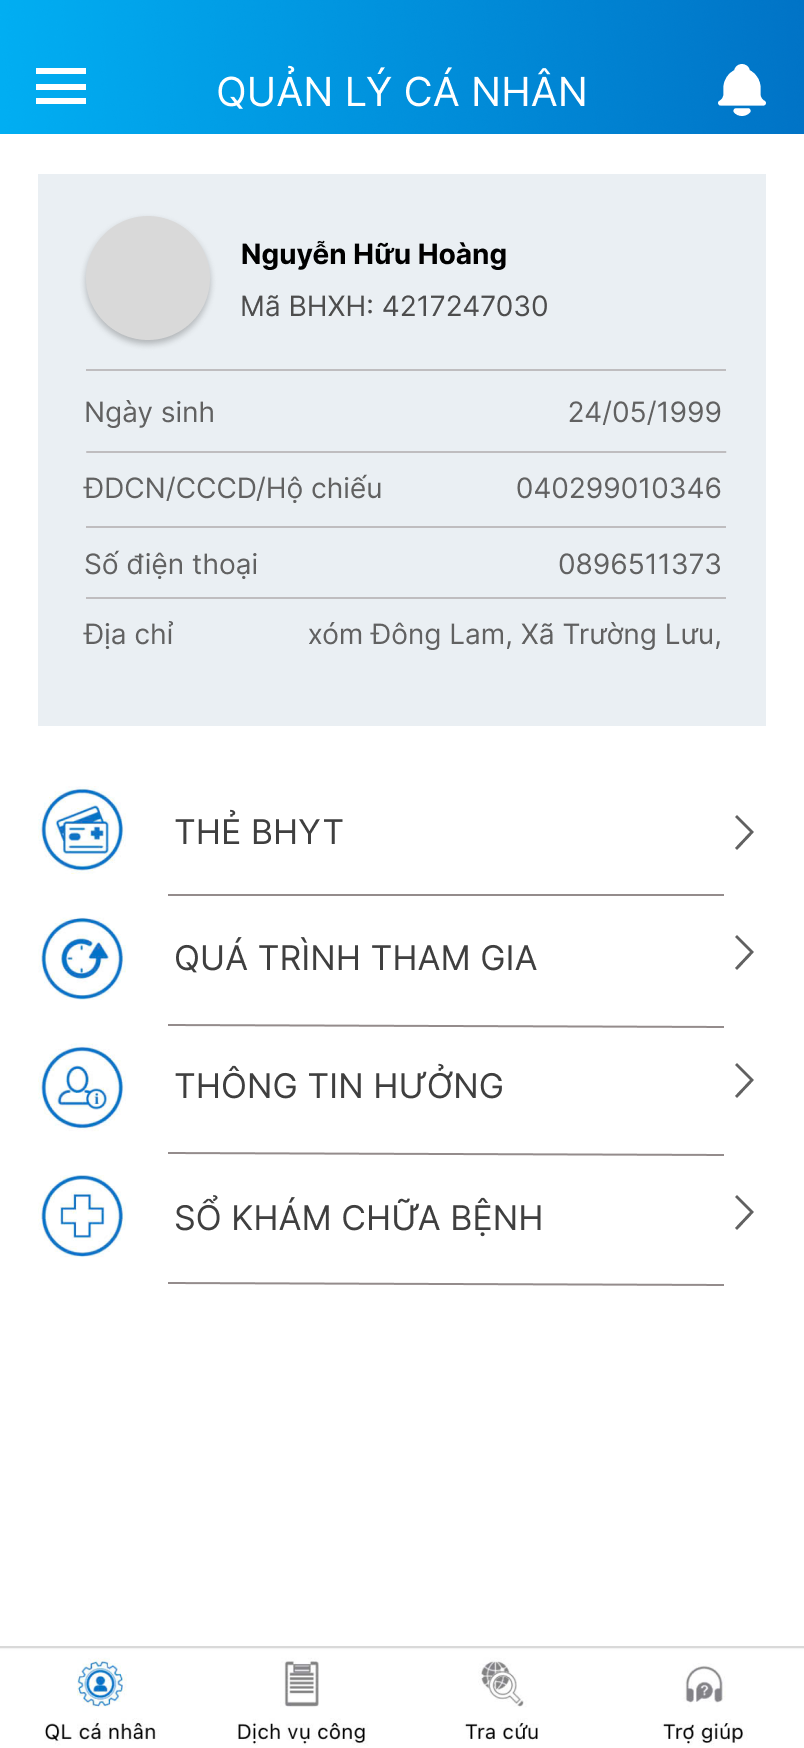
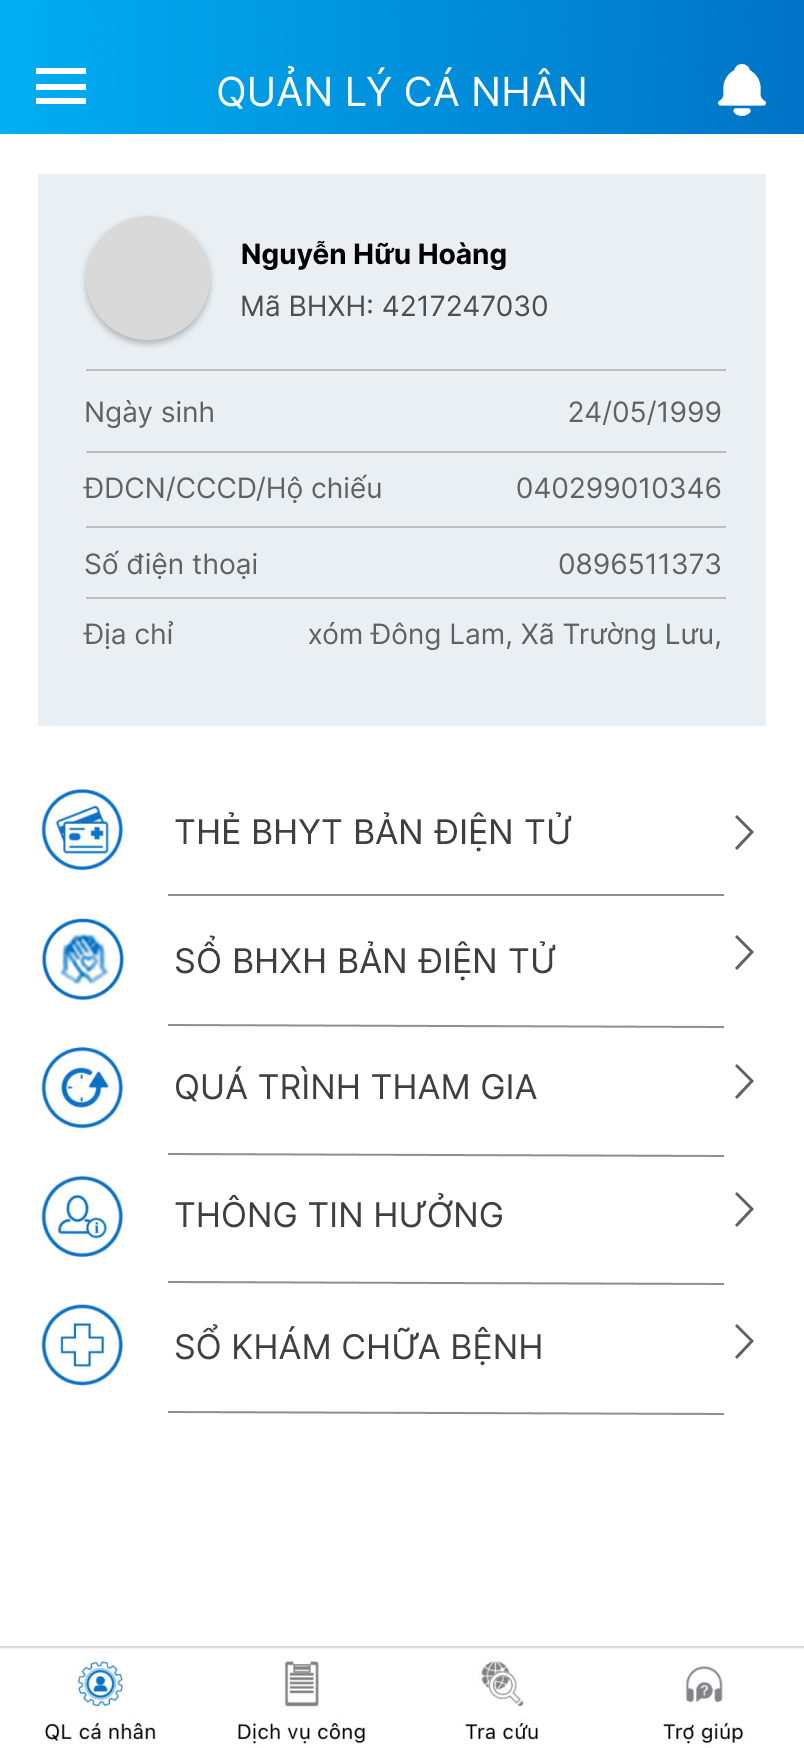
feat(dashboard): expand menu to 5 rows, add Sổ BHXH bản điện tử and move Quá trình tham gia to row 3

diff --git a/src/screens/Dashboard.jsx b/src/screens/Dashboard.jsx
@@ -338,10 +338,10 @@ const Dashboard = ({ currentAccount, onOpenSidebar, onNavigate }) => {
           </div>
         </div>
 
-        {/* 3. Transparent Menu Row Hotspots (y=378 to y=642) */}
-        {/* THẺ BHYT Row Hotspot (y=378 to 443) */}
+        {/* 3. Transparent Menu Row Hotspots (5 rows: y=378 to y=703) */}
+        {/* Row 1: THẺ BHYT BẢN ĐIỆN TỬ Hotspot (y=378 to 443) */}
         <div
-          onClick={() => alert('Tính năng Thẻ BHYT đang phát triển!')}
+          onClick={() => alert('Tính năng Thẻ BHYT bản điện tử đang phát triển!')}
           style={{
             position: 'absolute',
             left: 0,
@@ -352,9 +352,9 @@ const Dashboard = ({ currentAccount, onOpenSidebar, onNavigate }) => {
           }}
         />
 
-        {/* QUÁ TRÌNH THAM GIA Row Hotspot (y=443 to 508) */}
+        {/* Row 2: SỔ BHXH BẢN ĐIỆN TỬ Hotspot (y=443 to 508) */}
         <div
-          onClick={() => onNavigate('insurance-list', { transition: 'slide', direction: 'left' })}
+          onClick={() => alert('Tính năng Sổ BHXH bản điện tử đang phát triển!')}
           style={{
             position: 'absolute',
             left: 0,
@@ -365,9 +365,9 @@ const Dashboard = ({ currentAccount, onOpenSidebar, onNavigate }) => {
           }}
         />
 
-        {/* THÔNG TIN HƯỞNG Row Hotspot (y=508 to 573) */}
+        {/* Row 3: QUÁ TRÌNH THAM GIA Hotspot (y=508 to 573) */}
         <div
-          onClick={() => alert('Tính năng Thông tin hưởng đang phát triển!')}
+          onClick={() => onNavigate('insurance-list', { transition: 'slide', direction: 'left' })}
           style={{
             position: 'absolute',
             left: 0,
@@ -378,13 +378,26 @@ const Dashboard = ({ currentAccount, onOpenSidebar, onNavigate }) => {
           }}
         />
 
-        {/* SỔ KHÁM CHỮA BỆNH Row Hotspot (y=573 to 638) */}
+        {/* Row 4: THÔNG TIN HƯỞNG Hotspot (y=573 to 638) */}
+        <div
+          onClick={() => alert('Tính năng Thông tin hưởng đang phát triển!')}
+          style={{
+            position: 'absolute',
+            left: 0,
+            top: `${(573 / H) * 100}%`,
+            width: '100%',
+            height: `${(65 / H) * 100}%`,
+            cursor: 'pointer'
+          }}
+        />
+
+        {/* Row 5: SỔ KHÁM CHỮA BỆNH Hotspot (y=638 to 703) */}
         <div
           onClick={() => alert('Tính năng Sổ khám chữa bệnh đang phát triển!')}
           style={{
             position: 'absolute',
             left: 0,
-            top: `${(573 / H) * 100}%`,
+            top: `${(638 / H) * 100}%`,
             width: '100%',
             height: `${(65 / H) * 100}%`,
             cursor: 'pointer'

diff --git a/README.md b/README.md
@@ -98,6 +98,16 @@ npx vercel --prod --yes
 
 ## 📝 Recent Updates & Changelog (Lịch sử cập nhật)
 
+### 🚀 Phiên bản ngày 07/10/2026:
+* **Nâng cấp danh sách chức năng màn hình Quản lý cá nhân từ 4 hàng lên 5 hàng (`src/screens/Dashboard.jsx`, `src/assets/frame_dashboard.png`, `src/assets/ic_dash_sobhxh.png`):**
+  * **Cấu trúc 5 hàng chức năng mới bên dưới thẻ thông tin cá nhân (`y = 378px` đến `703px`, mỗi hàng cao `65px`):**
+    1. **Hàng 1 (`y: 378–443`):** `THẺ BHYT BẢN ĐIỆN TỬ` (cập nhật tên đầy đủ từ *"THẺ BHYT"*).
+    2. **Hàng 2 (`y: 443–508`):** `SỔ BHXH BẢN ĐIỆN TỬ` (hàng mới thêm kèm icon tròn hai bàn tay đan hình trái tim `src/assets/ic_dash_sobhxh.png` đồng bộ kích thước và màu sắc `#0672c3`).
+    3. **Hàng 3 (`y: 508–573`):** `QUÁ TRÌNH THAM GIA` (đẩy từ hàng 2 xuống hàng 3 — bấm vào điều hướng sang màn hình `InsuranceList.jsx`).
+    4. **Hàng 4 (`y: 573–638`):** `THÔNG TIN HƯỞNG` (đẩy từ hàng 3 xuống hàng 4).
+    5. **Hàng 5 (`y: 638–703`):** `SỔ KHÁM CHỮA BỆNH` (đẩy từ hàng 4 xuống hàng 5).
+  * Đồng bộ chính xác font chữ (`Inter Regular 17px`, màu `#3f3f3f`), đường kẻ phân cách (`#948c8c`) và mũi tên điều hướng bên phải (`>`) cho cả 5 hàng.
+
 ### 🚀 Phiên bản ngày 11/09/2026:
 * **Tự động co giãn hộp thẻ cá nhân (`src/screens/Dashboard.jsx`):**
   * **Vấn đề trước đó:** Phần "Địa chỉ" dài bị tràn ra ngoài hộp thẻ hoặc bị che khuất dòng cuối ("Thành phố Hà Nội").
